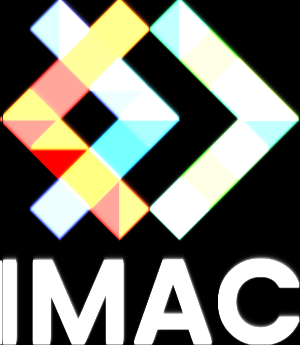
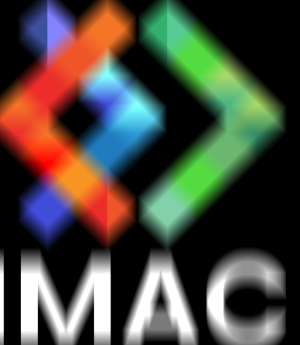
mid-exo-2

diff --git a/src/main.cpp b/src/main.cpp
@@ -554,7 +554,7 @@ void convolutionsGenerales(sil::Image image, const int n, float matrix[][3], std
 
 void filtresSeparables(sil::Image image)
 {   
-    const int blur_n = 5;
+    const int blur_n = 29;
     const float val = 1.0f / std::pow(blur_n, 2);
 
     float r{0};
@@ -570,24 +570,28 @@ void filtresSeparables(sil::Image image)
     {
         for(int y{0}; y < image.height(); y++)
         {
-            for (int i {-2}; i < 2; i++)
+            for (int i {-((blur_n-1)/2)}; i < ((blur_n-1)/2); i++)
             {
-                for (int j {-2}; j < 2; j++)
+                for (int j {-((blur_n-1)/2)}; j < ((blur_n-1)/2); j++)
                 {
-                    if(x+i > 0             && x+i < image.width()
-                    && y+j > 0 &&             y+j < image.height())
+                    if(x+i > 0             &&   x+i < image.width()
+                    && y+j > 0 &&               y+j < image.height())
                     {
-                        if(i != x-1)
+                        if(i != 0)
                         {
-                            r += (image.pixel(x+i, y+j).r + image.pixel(x+i, y+j)).r;
-                            g += (image.pixel(x+i, y+j).g + image.pixel(x+i, y+j)).g;
-                            b += (image.pixel(x+i, y+j).b + image.pixel(x+i, y+j)).b;
+                            r += image.pixel(x+i, y+j).r;
+                            g += image.pixel(x+i, y+j).g;
+                            b += image.pixel(x+i, y+j).b;
                         }
                     }
 
                     // std::cout << i << " " << j << "\n";
 
                 }
+
+                r /= static_cast<float>(blur_n - 1);
+                g /= static_cast<float>(blur_n - 1);
+                b /= static_cast<float>(blur_n - 1);
             }
                 
 
@@ -609,10 +613,6 @@ void filtresSeparables(sil::Image image)
             // r += image.pixel(x+i, y+j).r*val;
             // g += image.pixel(x+i, y+j).g*val;
             // b += image.pixel(x+i, y+j).b*val;
-
-            r /= static_cast<float>(blur_n - 1);
-            g /= static_cast<float>(blur_n - 1);
-            b /= static_cast<float>(blur_n - 1);
 
             std::cout << r << " " << g << " " << b << "\n";
 
